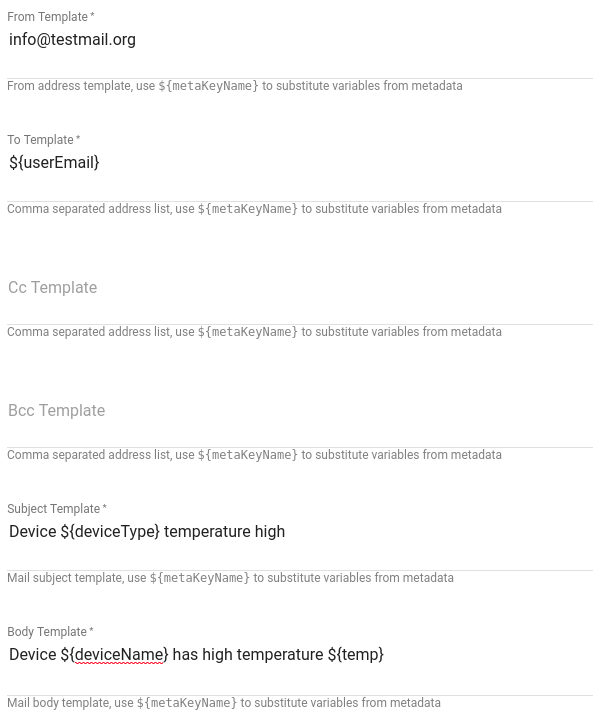
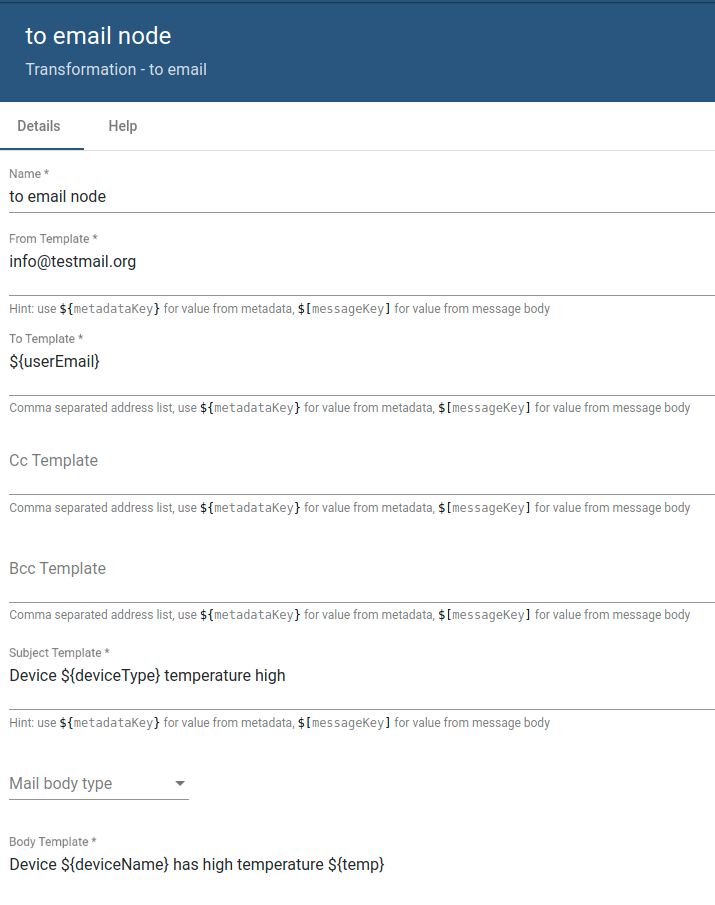
Added tutorial and updated documentation for 'to email' node

diff --git a/docs/user-guide/rule-engine-2-0/tutorials/send-email-html.md b/docs/user-guide/rule-engine-2-0/tutorials/send-email-html.md
@@ -1,0 +1,103 @@
+---
+layout: docwithnav
+title: Send HTML or image inside email
+description: Tutorial to send HTML page or image inside email message
+
+to_email_node:
+  0:
+    image: /images/user-guide/rule-engine-2-0/tutorials/html-in-email/add_rule_node_to_email.png
+  1:
+    image: /images/user-guide/rule-engine-2-0/tutorials/html-in-email/mail_body_type.png
+  2:
+    image: /images/user-guide/rule-engine-2-0/tutorials/html-in-email/dynamic_body_template.png
+
+rule_chain:
+  0:
+    image: /images/user-guide/rule-engine-2-0/tutorials/html-in-email/rule_chain.png
+
+image_generator:
+  0:
+    image: /images/user-guide/rule-engine-2-0/tutorials/html-in-email/function_generate_image_to_email.png
+
+results:
+  0:
+    image: /images/user-guide/rule-engine-2-0/tutorials/html-in-email/message_from_tb_html.png
+  1:
+    image: /images/user-guide/rule-engine-2-0/tutorials/html-in-email/message_from_tb_image.png
+
+html_generator:
+  0:
+    image: /images/user-guide/rule-engine-2-0/tutorials/html-in-email/html_to_email_generator.png
+
+---
+
+This Tutorial is to show you how to send an email message with HTML page or image inside.
+
+* TOC
+{:toc}
+
+## Prerequisites
+
+* [Getting Started](/docs/getting-started-guides/helloworld/) guide.
+* [Rule Engine Overview](/docs/user-guide/rule-engine-2-0/overview/).
+* [Send email](/docs/user-guide/rule-engine-2-0/external-nodes/#send-email-node) node.
+
+
+## Message flow
+- Like a start point we will use [Generator](/docs/user-guide/rule-engine-2-0/action-nodes/#generator-node) that will imitate regular rule chain messages flow: prepared message and metadata
+  where we can contain some dynamic field for **to email** node.
+- [To email node](/docs/user-guide/rule-engine-2-0/transformation-nodes/#to-email-node) will prepare data, destination email, and other for email message
+- [Send email node](/docs/user-guide/rule-engine-2-0/external-nodes/#send-email-node) will send a message
+
+## Configuring Rule Nodes
+
+#### Configuring "to email" node
+
+At first lets create and configure "to email" node.
+
+1. Go to rule chain, find `to email` node and drag it to canvas.
+2. Specify: **Name**, **From Template**, **To Template** - we will use pattern to find email in data of message, **Subject Template**. Choose **Mail Body Type** HTML or Dynamic if you need. We will use dynamic.
+3. Specify HTML to **Body Template**, you can use our example.
+4. Press **Add**
+
+{% include images-gallery.html imageCollection="to_email_node" %}
+
+{% capture bodyTemplateExamples %}
+Example of HTML page%,%loriot-account%,%templates/rule-nodes/to-email-node/html-page.md%br%
+Example of html with image%,%basic-credential%,%templates/rule-nodes/to-email-node/html-image.md{% endcapture %}
+
+{% include content-toggle.html content-toggle-id="bodyTemplateExamples" toggle-spec=bodyTemplateExamples %}
+
+#### Configuring generator
+At the second point lets configure "generator" node
+1. Find in rule chain `generator` and drag it to canvas
+2. Specify name field, choose "1" for **message count** and, for example "2" for **Period in seconds**
+3. Now we need to prepare JS code, also you can use our example
+
+*Here we need to specify fields in metadata, that dynamic in "to email" node. In our example it is "isHtml" and "userEmail" fields.*
+
+{% capture generatorCode %}
+JS code for HTML page%,%html-page%,%templates/rule-nodes/to-email-node/generator-code-for-html.md%br%
+JS code for image%,%image%,%templates/rule-nodes/to-email-node/generator-code-for-image.md{% endcapture %}
+
+{% include content-toggle.html content-toggle-id="generatorCode" toggle-spec=generatorCode %}
+
+#### Send email and finishing
+Find and configure new **send email** node and connect all nodes between themselves, like on the screen shoot.
+Save rule chain.
+
+{% include images-gallery.html imageCollection="rule_chain" %}
+
+## Result
+Check destination email to see result of "to email" node work.
+We got next message:
+
+{% include images-gallery.html imageCollection="results" %}
+
+# See Also
+
+- [Send email](/docs/user-guide/rule-engine-2-0/tutorials/send-email/).
+
+# Next steps
+
+{% assign currentGuide = "DataProcessing" %}{% include templates/guides-banner.md %}

diff --git a/_includes/templates/rule-nodes/to-email-node/html-page.md b/_includes/templates/rule-nodes/to-email-node/html-page.md
@@ -1,0 +1,28 @@
+
+Example of html
+```html
+<table class="main" style="font-family: 'Helvetica Neue', Helvetica, Arial, sans-serif; font-size: 14px; box-sizing: border-box; border-radius: 3px; width: 100%; background-color: #f6f6f6; margin: 0px auto;" cellspacing="0" cellpadding="0" bgcolor="#f6f6f6">
+    <tbody>
+    <tr style="box-sizing: border-box; margin: 0px;">
+        <td class="content-wrap" style="box-sizing: border-box; vertical-align: top; margin: 0px; padding: 20px;" align="center" valign="top">
+            <table style="box-sizing: border-box; border: solid 1px #e9e9e9; border-radius: 3px; margin: 0px; height: 127px; padding: 20px; background-color: #ffffff; width: 600px; max-width: 600px !important;" width="600" cellspacing="0" cellpadding="0">
+                <tbody>
+                <tr style="box-sizing: border-box; margin: 0px;">
+                    <td class="content-block" style="color: #348eda; box-sizing: border-box; border-radius: 6px; vertical-align: top; margin: 0px; padding: 0px 0px 20px; width: 839px;" valign="top">
+                        <h2>Test message using 'to email' rule node</h2>
+                    </td>
+                </tr>
+                <tr style="box-sizing: border-box; margin: 0px;">
+                    <td class="content-block" style="box-sizing: border-box; vertical-align: top; margin: 0px; padding: 0px 0px 20px; width: 600px;" valign="top"><span style="color: #000000;">This email is indicating that your outgoing mail settings were set up correctly.</span></td>
+                </tr>
+                <tr style="box-sizing: border-box; margin: 0px;">
+                    <td class="content-block" style="box-sizing: border-box; vertical-align: top; margin: 0px; padding: 0px 0px 20px; width: 600px;" valign="top"><span style="color: #000000;">&mdash; The ThingsBoard :)</span></td>
+                </tr>
+                </tbody>
+            </table>
+        </td>
+    </tr>
+    </tbody>
+</table>
+
+```

diff --git a/_includes/docs/user-guide/rule-engine-2-0/ce-transformation-nodes.md b/_includes/docs/user-guide/rule-engine-2-0/ce-transformation-nodes.md
@@ -132,7 +132,7 @@ You can see real life example, how to use this node in those tutorials:
 
 Transforms message to Email Message by populating email fields using values derived from Message metadata.
 Set 'SEND_EMAIL' output Message type that can be accepted later by [**Send Email Node**](/docs/{{docsPrefix}}user-guide/rule-engine-2-0/external-nodes/#send-email-node).
-All email fields can be configured to use values from metadata.
+All email fields can be configured to use values from metadata. Supports sending of HTML pages and images.
   
 ![image](/images/user-guide/rule-engine-2-0/nodes/transformation-to-email-config.png)
 
@@ -146,8 +146,10 @@ In this case value of **deviceName** can be referenced as <code>${deviceName}</c
  
 <br/>
 
-Additionally this node can prepare email attachments if incoming message metadata contains **attachments** field with reference to files stored in DataBase. 
+If you like to send html or image you have to choose **HTML** or **Dynamic** in field **Mail Body type**. See [send HTML or image inside email](/docs/user-guide/rule-engine-2-0/tutorials/send-email-html)
+examples.
 
+Additionally, this node can prepare email attachments if incoming message metadata contains **attachments** field with reference to files stored in DataBase.
 **NOTE**: This is part of [File Storage](/docs/{{docsPrefix}}user-guide/file-storage/) feature supported by [ThingsBoard Professional Edition](/products/thingsboard-pe/).
 
 <br/>
@@ -155,5 +157,5 @@ Additionally this node can prepare email attachments if incoming message metadat
 You can see the real life example, where this node is used, in the next tutorial:
 
 - [Send Email](/docs/user-guide/rule-engine-2-0/tutorials/send-email/)
-
+- [Send HTML or image inside email](/docs/user-guide/rule-engine-2-0/tutorials/send-email-html)
 

diff --git a/_includes/templates/rule-nodes/to-email-node/generator-code-for-image.md b/_includes/templates/rule-nodes/to-email-node/generator-code-for-image.md
@@ -1,0 +1,19 @@
+_To send image you need to encode image to Base64.To do this you need to find
+some service that can do this and set result string
+for `encodedImage` in next example._
+
+Example of generator JS code
+```js
+var encodedImage = 'HERE_YOU_BASE_64_ENCODED_IMAGE';
+var images = {
+    "tb.example.png": encodedImage
+};
+var metadata = { 
+    userEmail: 'info@thingsboard.org', 
+    images: JSON.stringify(images), 
+    isHtml: true 
+};
+var msgType = "POST_TELEMETRY_REQUEST";
+return { msg: {}, metadata: metadata, msgType: msgType }
+```
+{% include images-gallery.html imageCollection="image_generator" %}

diff --git a/_includes/templates/rule-nodes/to-email-node/generator-code-for-html.md b/_includes/templates/rule-nodes/to-email-node/generator-code-for-html.md
@@ -1,0 +1,7 @@
+Example of generator JS code
+```js
+var metadata = { userEmail: 'info@thingsboard.org', isHtml: true };
+var msgType = "POST_TELEMETRY_REQUEST";
+return { msg: {}, metadata: metadata, msgType: msgType }
+```
+{% include images-gallery.html imageCollection="html_generator" %}

diff --git a/_includes/templates/rule-nodes/to-email-node/html-image.md b/_includes/templates/rule-nodes/to-email-node/html-image.md
@@ -1,0 +1,6 @@
+To send image you just need to specify name of image with file extension
+
+Example of HTML with image
+```html
+<img src="cid:tb.example.png" />
+```
